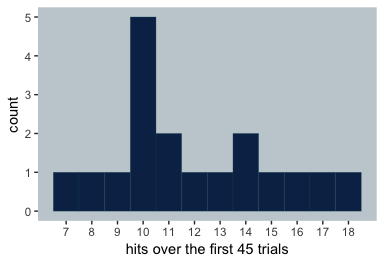
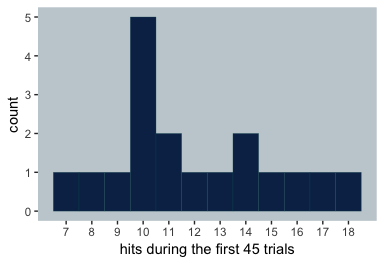
version 1.0.0

Changed region(s): [[0.3125, 0.9091, 0.7812, 0.9697]]

diff --git a/README.md b/README.md
@@ -4,7 +4,7 @@ James-Stein and Bayesian partial pooling
 [tl;dr](https://www.urbandictionary.com/define.php?term=tl%3Bdr)
 ----------------------------------------------------------------
 
-> Sometimes a mathematical result is strikingly contrary to generally held belief even though an obviously valid proof is given. Charles Stein of Stanford University discovered such a paradox in statistics in 1995. His result undermined a century and a half of work on estimation theory. (p. 119)
+> Sometimes a mathematical result is strikingly contrary to generally held belief even though an obviously valid proof is given. [Charles Stein](https://en.wikipedia.org/wiki/Charles_M._Stein) of Stanford University discovered such a paradox in statistics in 1995. His result undermined a century and a half of work on estimation theory. (p. 119)
 
 The James-Stein estimator leads to better predictions than simple means. Though I don’t recommend you actually use the James-Stein estimator in applied research, understanding why it works might help clarify why it's time social scientists [default to multilevel models](http://elevanth.org/blog/2017/08/24/multilevel-regression-as-default/) for applied statistics.
 
@@ -46,11 +46,11 @@ head(baseball)
     ## 5 Berry         14           45   0.273
     ## 6 Spencer       14           45   0.27
 
-We have data from 18 players. The main columns are of the number of `hits` for their first 45 `times_at_bat`. I got the `player` through `times_at_bat` values directly from the paper. However, Efron and Morris didn't include the batting averages for the end of the season in the paper. But I was able to find those values [online](http://statweb.stanford.edu/~ckirby/brad/LSI/chapter1.pdf). They're included in the `true_ba` column.
+We have data from 18 players. The main columns are of the number of `hits` for their first 45 `times_at_bat`. I got the `player`, `hits`, and `times_at_bat` values directly from the paper. However, Efron and Morris didn't include the batting averages for the end of the season in the paper. Happily, I was able to find those values [online](http://statweb.stanford.edu/~ckirby/brad/LSI/chapter1.pdf). They're included in the `true_ba` column.
 
-> ...These were all the players who happened to have batted exactly 45 times the day the data were tabulated. A batting average is defined, of course, simple as the number of hits divided by the number of times at bat; it is always a number between 0 and 1. (p. 119)
+> ...These were all the players who happened to have batted exactly 45 times the day the data were tabulated. A batting average is defined, of course, simply as the number of hits divided by the number of times at bat; it is always a number between 0 and 1. (p. 119)
 
-I like to understand what I'm doing with lots of plots. The color theme for the plots in this project comes from [here](https://teamcolorcodes.com/seattle-mariners-color-codes/).
+I like use a lot of plots to better understand what I'm doing. Before we start plotting, I should point out the color theme in this project comes from [here](https://teamcolorcodes.com/seattle-mariners-color-codes/).
 
 ``` r
 navy_blue <- "#0C2C56"
@@ -71,7 +71,7 @@ baseball %>%
   geom_histogram(color = nw_green,
                  fill  = navy_blue,
                  size  = 1/10, binwidth = 1) +
-  scale_x_continuous("hits over the first 45 trials",
+  scale_x_continuous("hits during the first 45 trials",
                      breaks = 7:18)
 ```
 
@@ -196,7 +196,7 @@ baseball %>%
 
 ![](README_files/figure-markdown_github/unnamed-chunk-8-1.png)
 
-The James-Stein errors (i.e., `z_error`) are much more concentrated toward zero. In the paper, we read: "One method of evaluating the two estimates is by simple counting their successes and failures. For 16 of the 18 players the James-Stein estimator *z* is closer than the observed average *y* to the 'true,' or seasonal, average *θ*." We can compute that with a little `ifelse()`.
+The James-Stein errors (i.e., `z_error`) are much more concentrated toward zero. In the paper, we read: "One method of evaluating the two estimates is by simply counting their successes and failures. For 16 of the 18 players the James-Stein estimator *z* is closer than the observed average *y* to the 'true,' or seasonal, average *θ*" (pp. 119--121). We can compute that with a little `ifelse()`.
 
 ``` r
 baseball %>% 
@@ -237,9 +237,7 @@ We can get the 3.5 value with simple division.
 
     ## [1] 3.531431
 
-So it does indeed turn out that shrinking each player’s initial estimate toward the grand mean of those initial estimates does a better job of predicting their end-of-the-season batting averages than using their individual batting averages.
-
-To get a sense of what this looks like, let’s make our own version of the figure on page 121.
+So it does indeed turn out that shrinking each player’s initial estimate toward the grand mean of those initial estimates does a better job of predicting their end-of-the-season batting averages than using their individual batting averages. To get a sense of what this looks like, let’s make our own version of the figure on page 121.
 
 ``` r
 baseball %>% 
@@ -301,8 +299,6 @@ baseball %>%
     ##       <dbl>
     ## 1     0.212
 
-And if you round up, we have .212.
-
 Let’s go Bayesian
 -----------------
 
@@ -318,7 +314,7 @@ I use Bayesian multilevel models a lot in my research. The James-Stein estimator
 library(brms)
 ```
 
-I typically work with the linear regression paradigm. If we were to analyze the `baseball` with linear regression, we’d use an aggregated binomial model—which you can learn more about [here](https://www.youtube.com/watch?v=DyrUkqK9Tj4&t=1581s&frags=pl%2Cwn) or [here](https://github.com/ASKurz/Statistical_Rethinking_with_brms_ggplot2_and_the_tidyverse/blob/master/10.md). If we wanted a model that corresponded to the *y* estimates, above, we’d use `hits` as the criterion and allow each player to get their own *separate* estimate. Since we’re working within the Bayesian paradigm, we also need to assign priors. In this case, we’ll use a weakly-regularizing Normal(0, 2) on the intercepts. See [this wiki](https://github.com/stan-dev/stan/wiki/Prior-Choice-Recommendations) for more on weakly-regularizing priors. Here’s the model code.
+I typically work with the linear regression paradigm. If we were to analyze the `baseball` with linear regression, we’d use an aggregated binomial model—which you can learn more about [here](https://www.youtube.com/watch?v=DyrUkqK9Tj4&t=1581s&frags=pl%2Cwn) or [here](https://github.com/ASKurz/Statistical_Rethinking_with_brms_ggplot2_and_the_tidyverse/blob/master/10.md). If we wanted a model that corresponded to the *y* estimates, above, we’d use `hits` as the criterion and allow each player to get his own *separate* estimate. Since we’re working within the Bayesian paradigm, we also need to assign priors. In this case, we’ll use a weakly-regularizing Normal(0, 2) on the intercepts. See [this wiki](https://github.com/stan-dev/stan/wiki/Prior-Choice-Recommendations) for more on weakly-regularizing priors. Here’s the model code.
 
 ``` r
 fit_y <-
@@ -417,7 +413,7 @@ fit_z$fit
     ## and Rhat is the potential scale reduction factor on split chains (at 
     ## convergence, Rhat=1).
 
-If you’re new to aggregated binomial or logistic regression, those estimates might be confusing. For technical reasons—see [here](https://www.youtube.com/watch?v=DyrUkqK9Tj4&t=1430s&frags=pl%2Cwn)—, they’re in a log-odds metric. But we can use the `brms::inv_logit_scaled()` function to convert them back to a probability metric. *Why would we want a probability metric?*, you might ask. As it turns out, batting average is in a probability metric, too. So you might also think of the `brms::inv_logit_scaled()` as turning the model results into a batting-average metric. For example, if we wanted to bet the estimated batting average for E. Rodriguez baed on the `y_fit` model (i.e., the model corresponding to the *y* estimator), we might do something like this.
+If you’re new to aggregated binomial or logistic regression, those estimates might be confusing. For technical reasons—see [here](https://www.youtube.com/watch?v=DyrUkqK9Tj4&t=1430s&frags=pl%2Cwn)—, they’re in a log-odds metric. But we can use the `brms::inv_logit_scaled()` function to convert them back to a probability metric. *Why would we want a probability metric?*, you might ask. As it turns out, batting average is in a probability metric, too. So you might also think of the `inv_logit_scaled()` function as turning the model results into a batting-average metric. For example, if we wanted to get the estimated batting average for E. Rodriguez baed on the `y_fit` model (i.e., the model corresponding to the *y* estimator), we might do something like this.
 
 ``` r
 fixef(fit_y)["playerERodriguez", 1] %>% inv_logit_scaled()
@@ -618,6 +614,8 @@ grid.arrange(p3, p4, ncol = 2)
 ![](README_files/figure-markdown_github/unnamed-chunk-24-1.png)
 
 \[For consistency, I’ve ordered the players the same as in the previous plots.\] In both panels, we show the prediction error distribution for each player in green and summarize those distributions in terms of their means and percentile-based 95% intervals. Since these are error distributions, we prefer them to be as close to zero as possible. Although neither model made perfect predictions, the overall errors in the multilevel model were clearly smaller. Much like with the James-Stein estimator, the partial pooling of the multilevel model made for better end-of-the-season estimates.
+
+> The paradoxical \[consequence of Bayesian multilevel models\] is that \[they can contradict\] this elementary law of statistical theory. If we have \[two\] or more baseball players, and if we are interested in predicting future batting averages for each of them, then \[the Bayesian multilevel model can be better\] than simply extrapolating from the three separate averages. (p. 119)
 
 Next steps
 ----------
